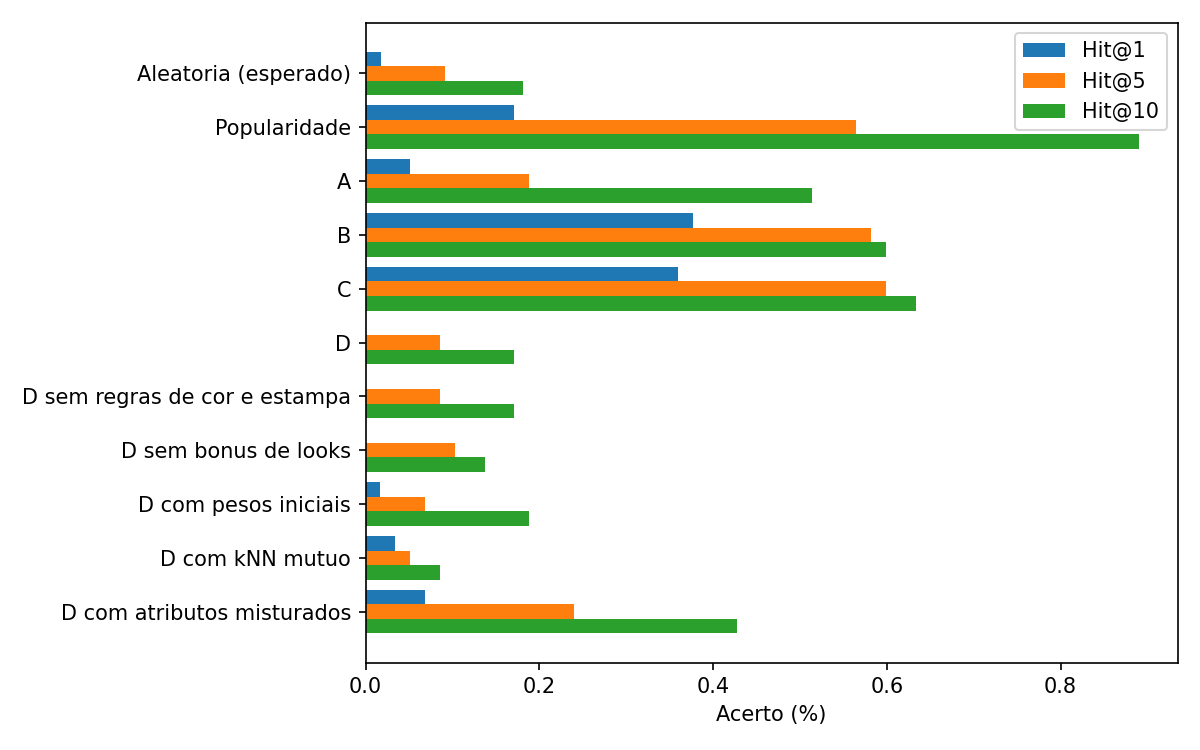
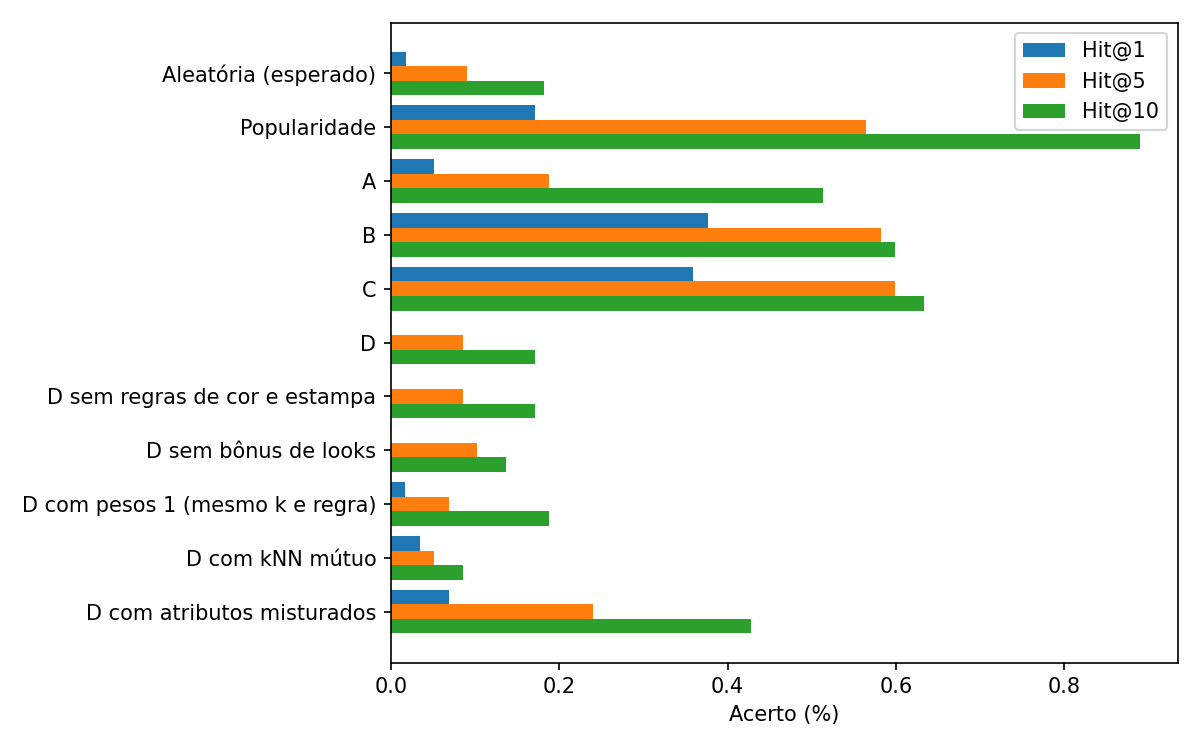
Ajusta graficos e nome da linha de pesos 1

diff --git a/preprocess/graficos.py b/preprocess/graficos.py
@@ -1,5 +1,5 @@
 #!/usr/bin/env python3
-# Gera os graficos do artigo a partir dos csv de resultados.
+# Gera os gráficos do artigo a partir dos csv de resultados.
 # Uso: python3 preprocess/graficos.py
 
 import csv
@@ -11,6 +11,14 @@ import matplotlib.pyplot as plt
 PASTA = "resultados"
 
 
+# os nomes no csv ficam sem acento
+ACENTOS = {
+    "Aleatoria (esperado)": "Aleatória (esperado)",
+    "D sem bonus de looks": "D sem bônus de looks",
+    "D com kNN mutuo": "D com kNN mútuo",
+}
+
+
 def ler(nome):
     with open(f"{PASTA}/{nome}", encoding="utf-8") as arquivo:
         return list(csv.DictReader(arquivo))
@@ -18,7 +26,7 @@ def ler(nome):
 
 def barras():
     linhas = [l for l in ler("hit_d.csv") if l["versao"] != "Aleatoria (sorteio)"]
-    nomes = [l["versao"] for l in linhas]
+    nomes = [ACENTOS.get(l["versao"], l["versao"]) for l in linhas]
     y = range(len(nomes))
     fig, ax = plt.subplots(figsize=(8, 5))
     for i, (coluna, rotulo) in enumerate([("hit1", "Hit@1"), ("hit5", "Hit@5"), ("hit10", "Hit@10")]):
@@ -36,18 +44,18 @@ def linhas_tempo():
     velhos = ler("tempos.csv")
     novos = ler("tempos_d.csv")
     series = [
-        ("KD-tree unica", velhos, "construir_kdtree_ms"),
+        # C fica de fora: a medida dela usa look de 1 peça e a de D usa looks reais
+        ("KD-tree única", velhos, "construir_kdtree_ms"),
         ("KD-trees por categoria", novos, "arvores_ms"),
-        ("Arestas da versao D", novos, "arestas_ms"),
-        ("Recomendacao C", velhos, "recomendacao_c_ms"),
-        ("Recomendacao D", novos, "recomendacao_ms"),
+        ("Arestas da versão D", novos, "arestas_ms"),
+        ("Recomendação D", novos, "recomendacao_ms"),
     ]
     fig, ax = plt.subplots(figsize=(8, 5))
     for rotulo, dados, coluna in series:
         ax.plot([int(l["pecas"]) for l in dados], [float(l[coluna]) for l in dados], marker="o", label=rotulo)
     ax.set_xscale("log")
     ax.set_yscale("log")
-    ax.set_xlabel("Pecas")
+    ax.set_xlabel("Peças")
     ax.set_ylabel("Tempo (ms)")
     ax.legend()
     fig.tight_layout()
